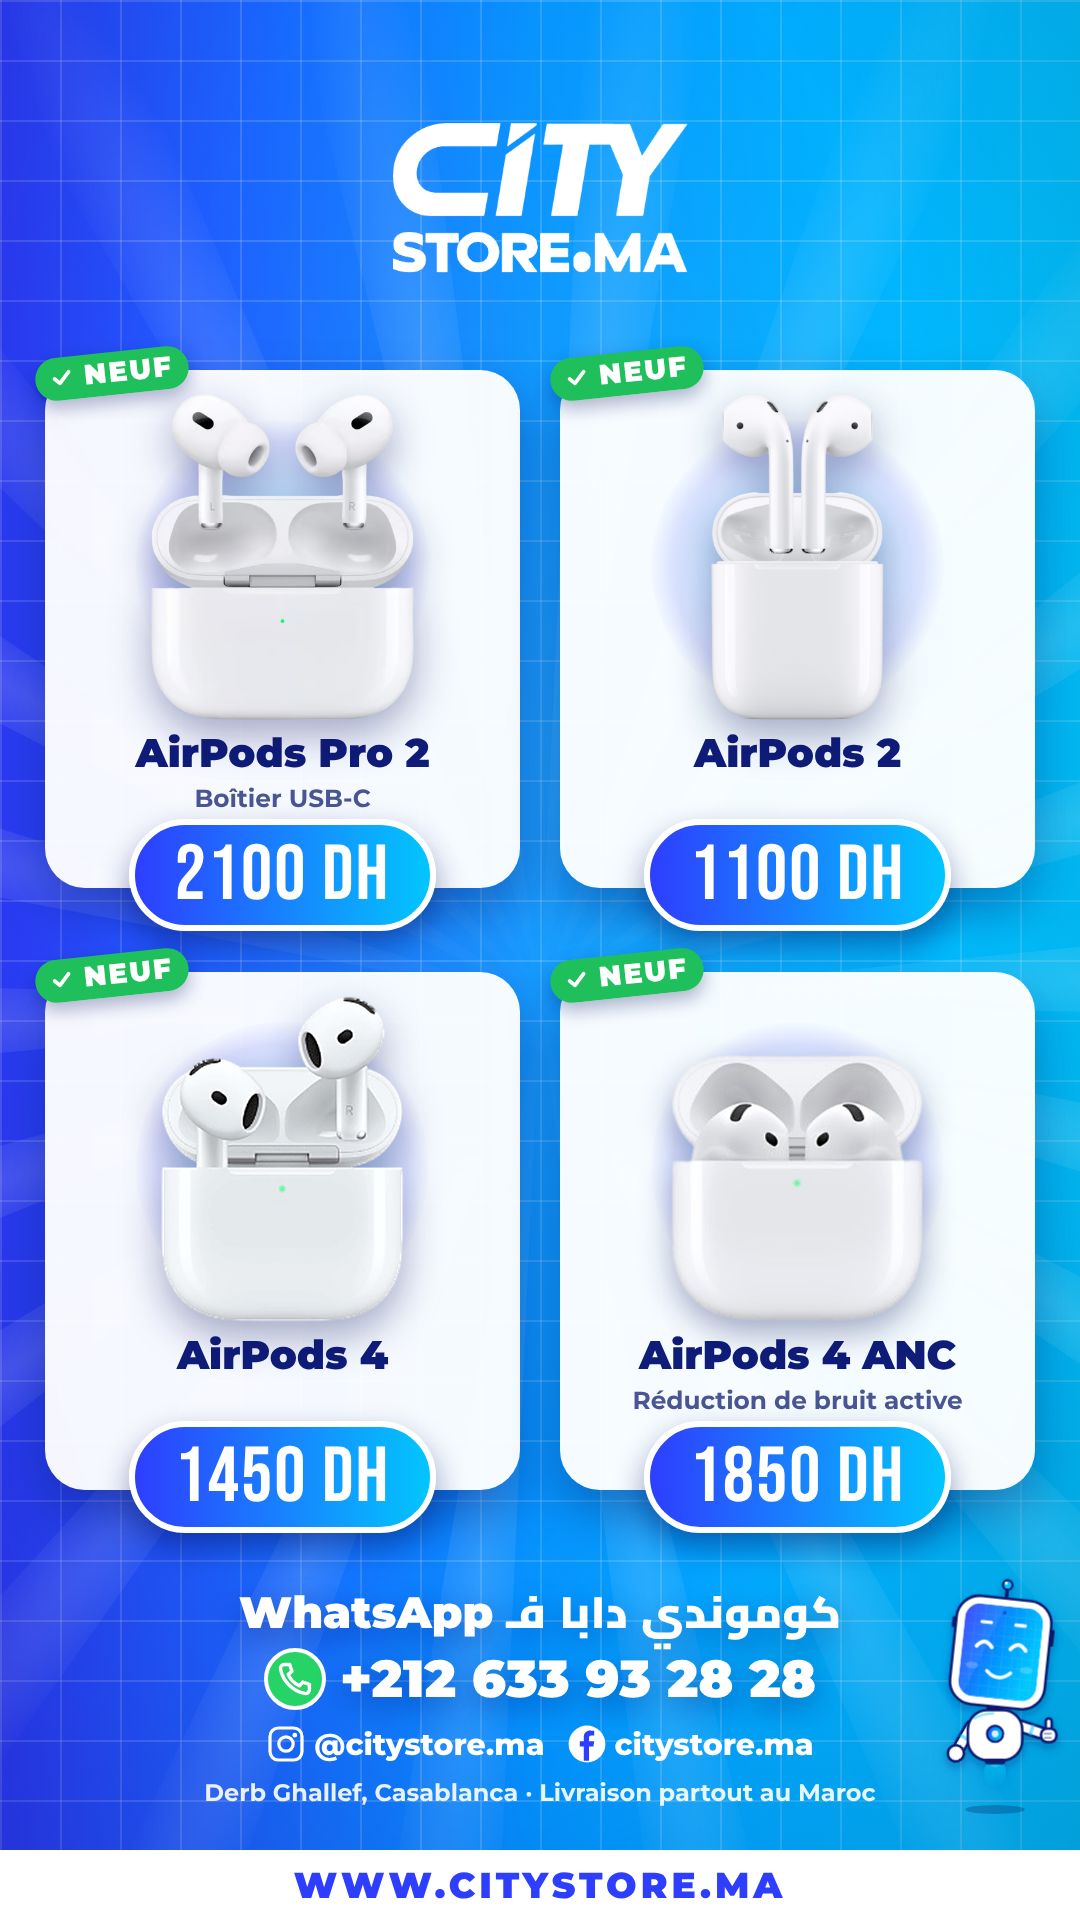
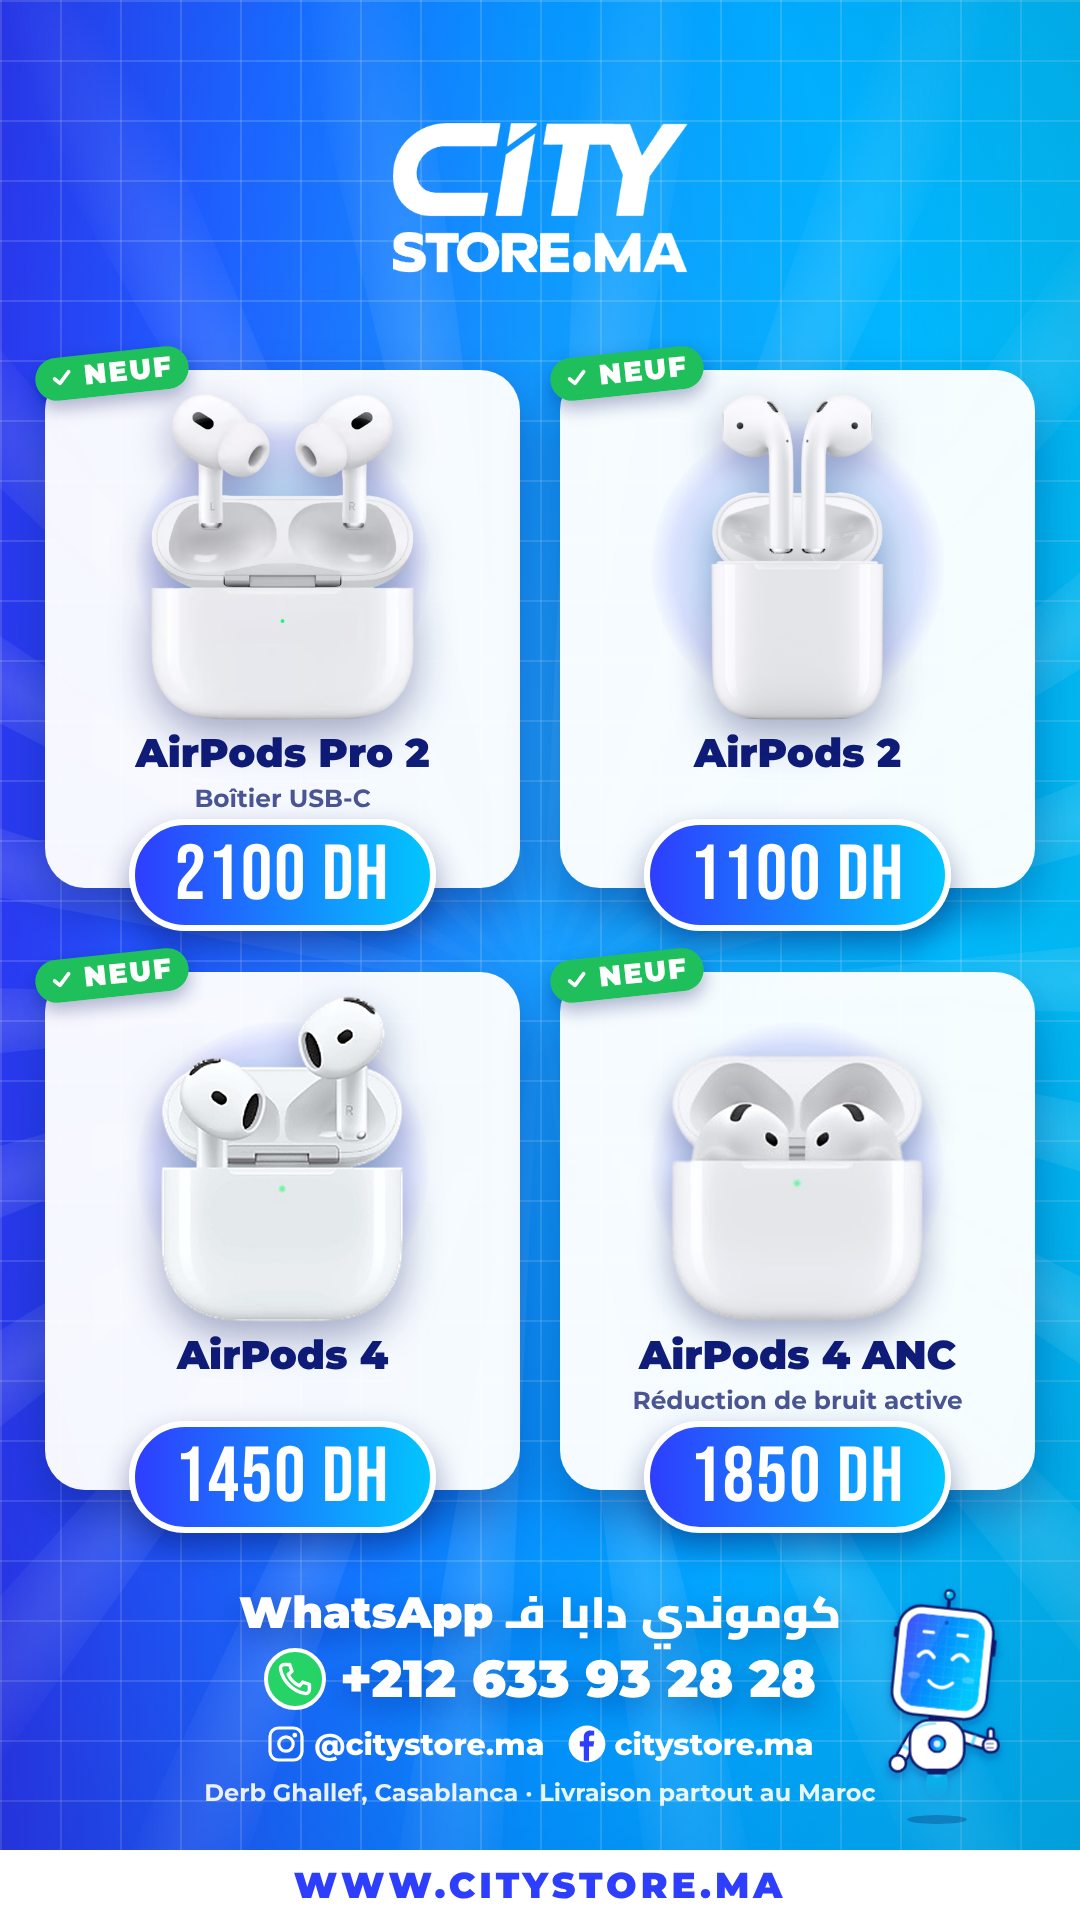
Price list: Citybot closer to the contact block
Claude-Session: https://claude.ai/code/session_01B6UvVnyVQqoyQ1GwELGaCV

Changed region(s): [[0.825, 0.8125, 0.9778, 0.9688]]

diff --git a/src/pricelist/PriceList.tsx b/src/pricelist/PriceList.tsx
@@ -120,7 +120,7 @@ export const PriceList: React.FC<PriceListProps> = ({ title, subtitle, items, wh
         </div>
         <div style={{ fontFamily: FONT, fontWeight: 700, fontSize: 24, color: "rgba(255,255,255,0.9)" }}>{footnote}</div>
       </div>
-      <div style={{ position: "absolute", right: 0, top: 1580 }}>
+      <div style={{ position: "absolute", right: 58, top: 1590 }}>
         <Citybot id="pricelist" width={170} expression="happy" mouth="smile" tilt={6} rightArm={{ rot: 72, hand: "thumb" }} leftArm={{ rot: 30, hand: "open" }} hover={8} />
       </div>
       {/* website bar */}
